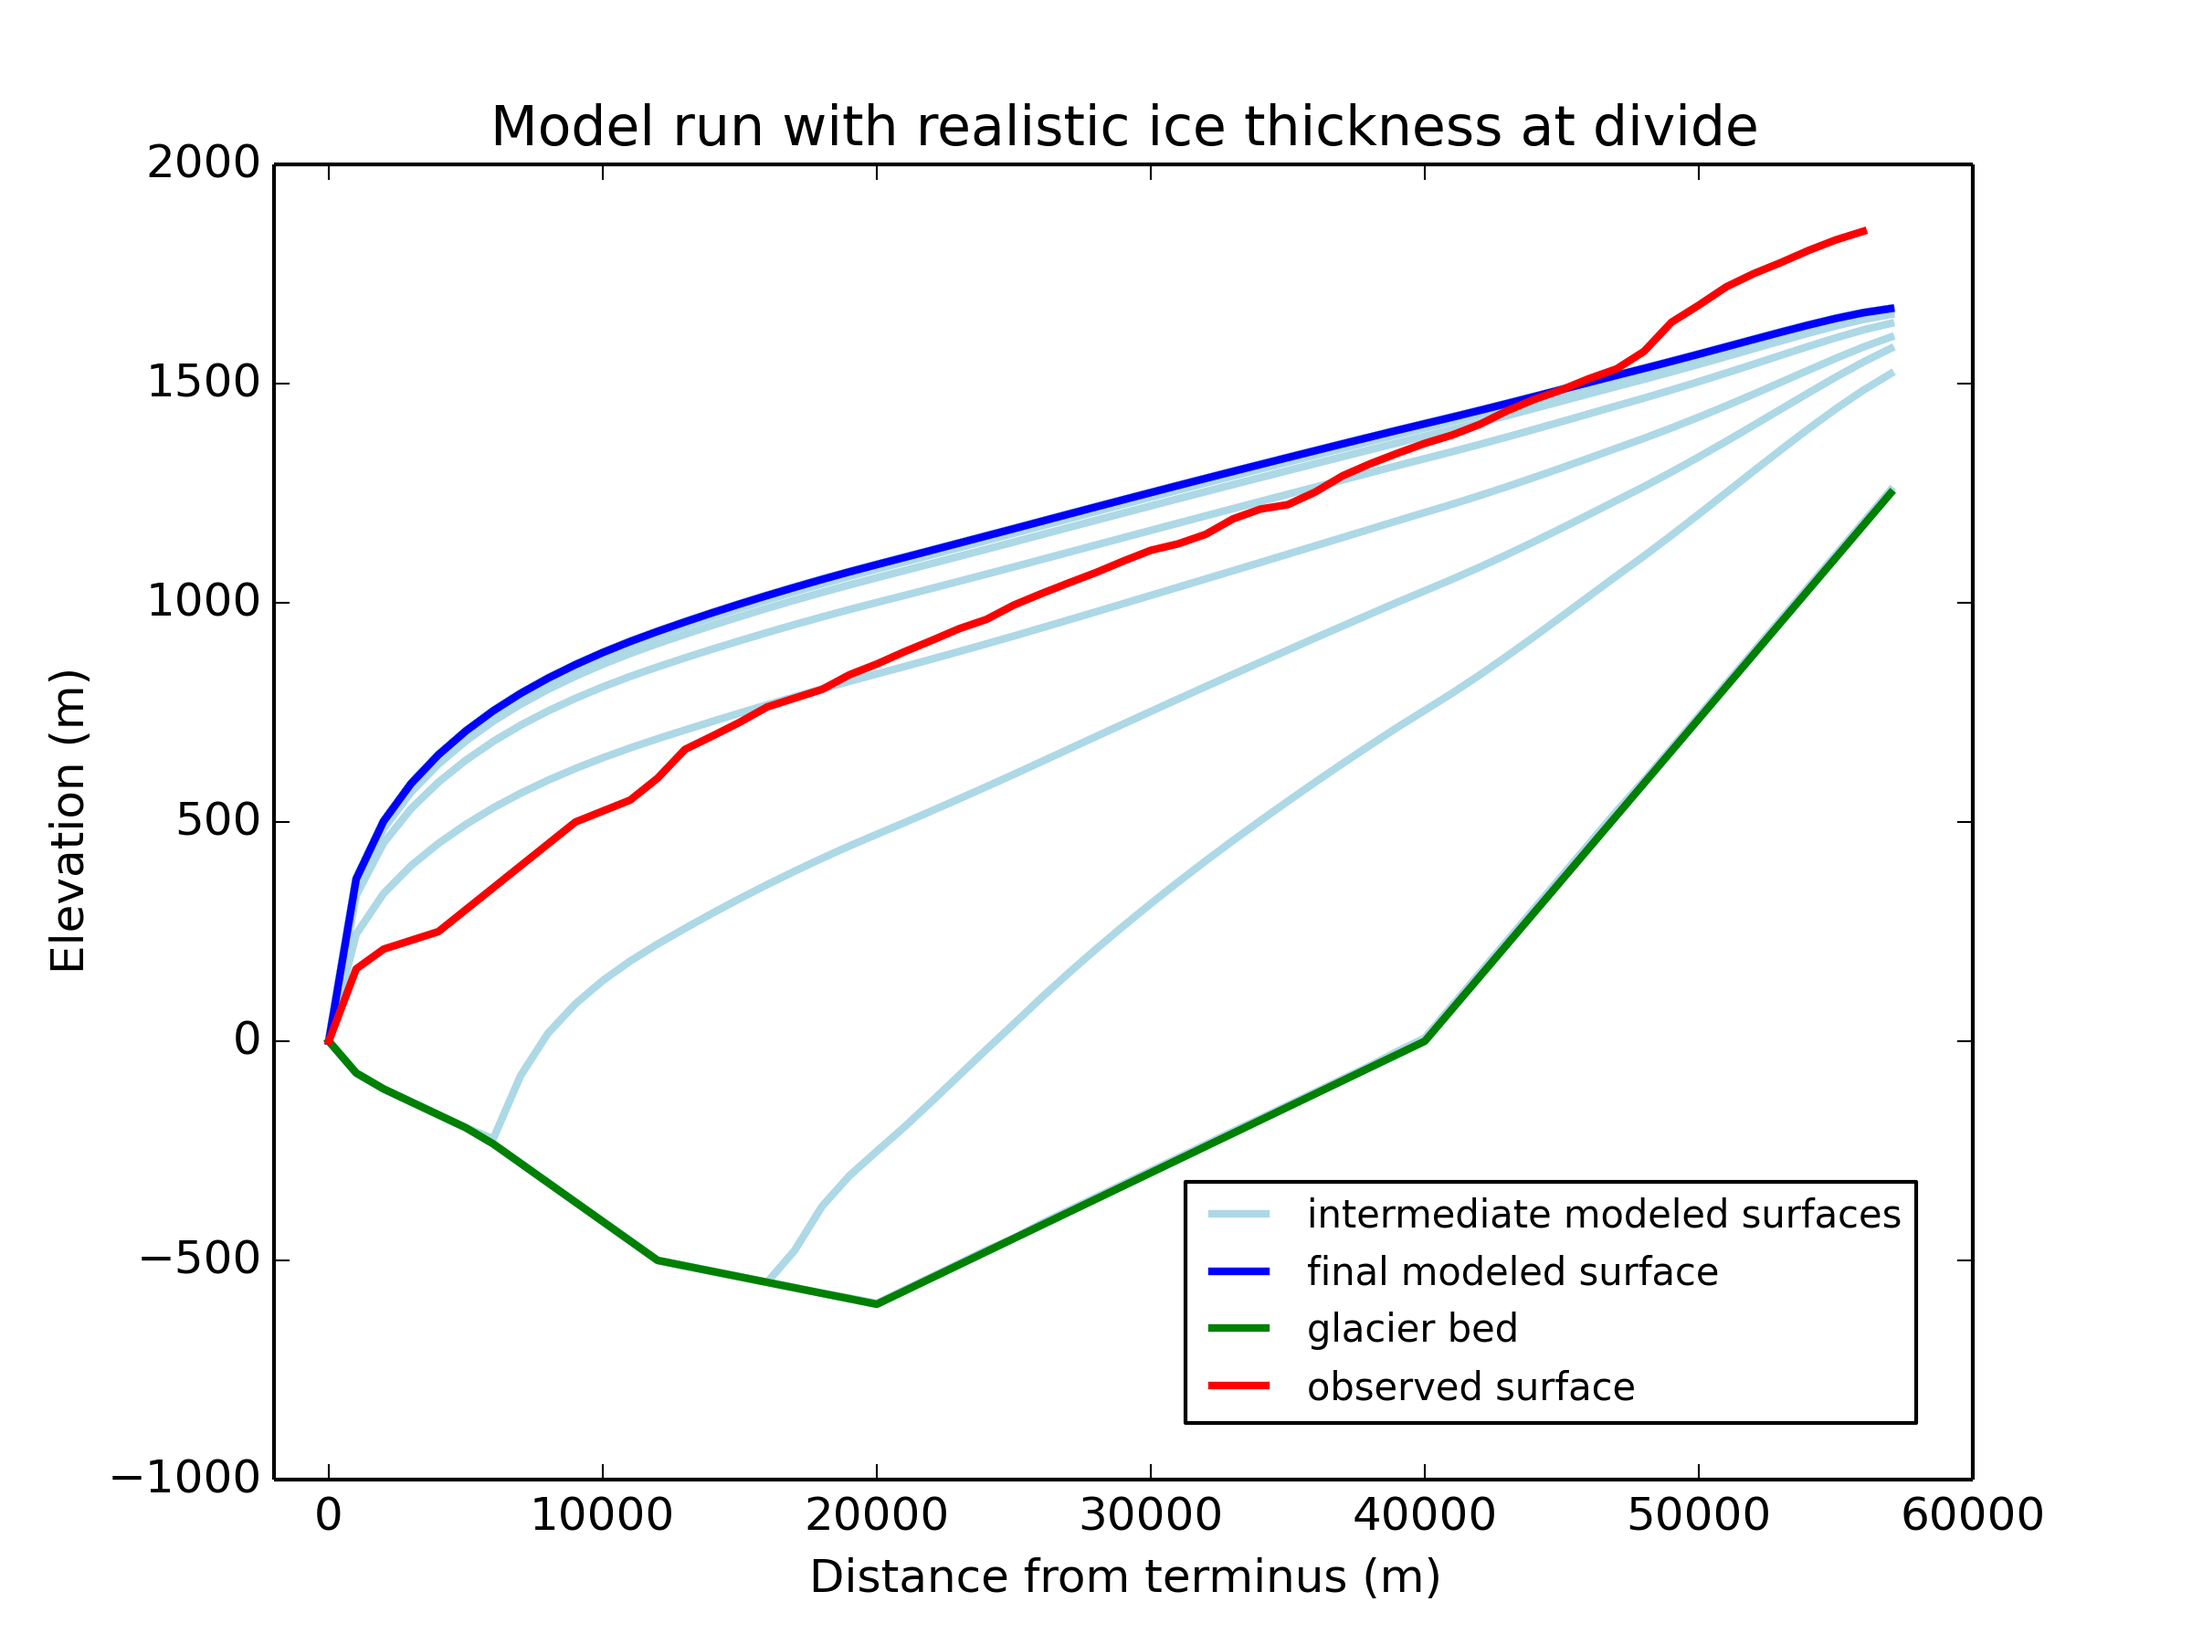
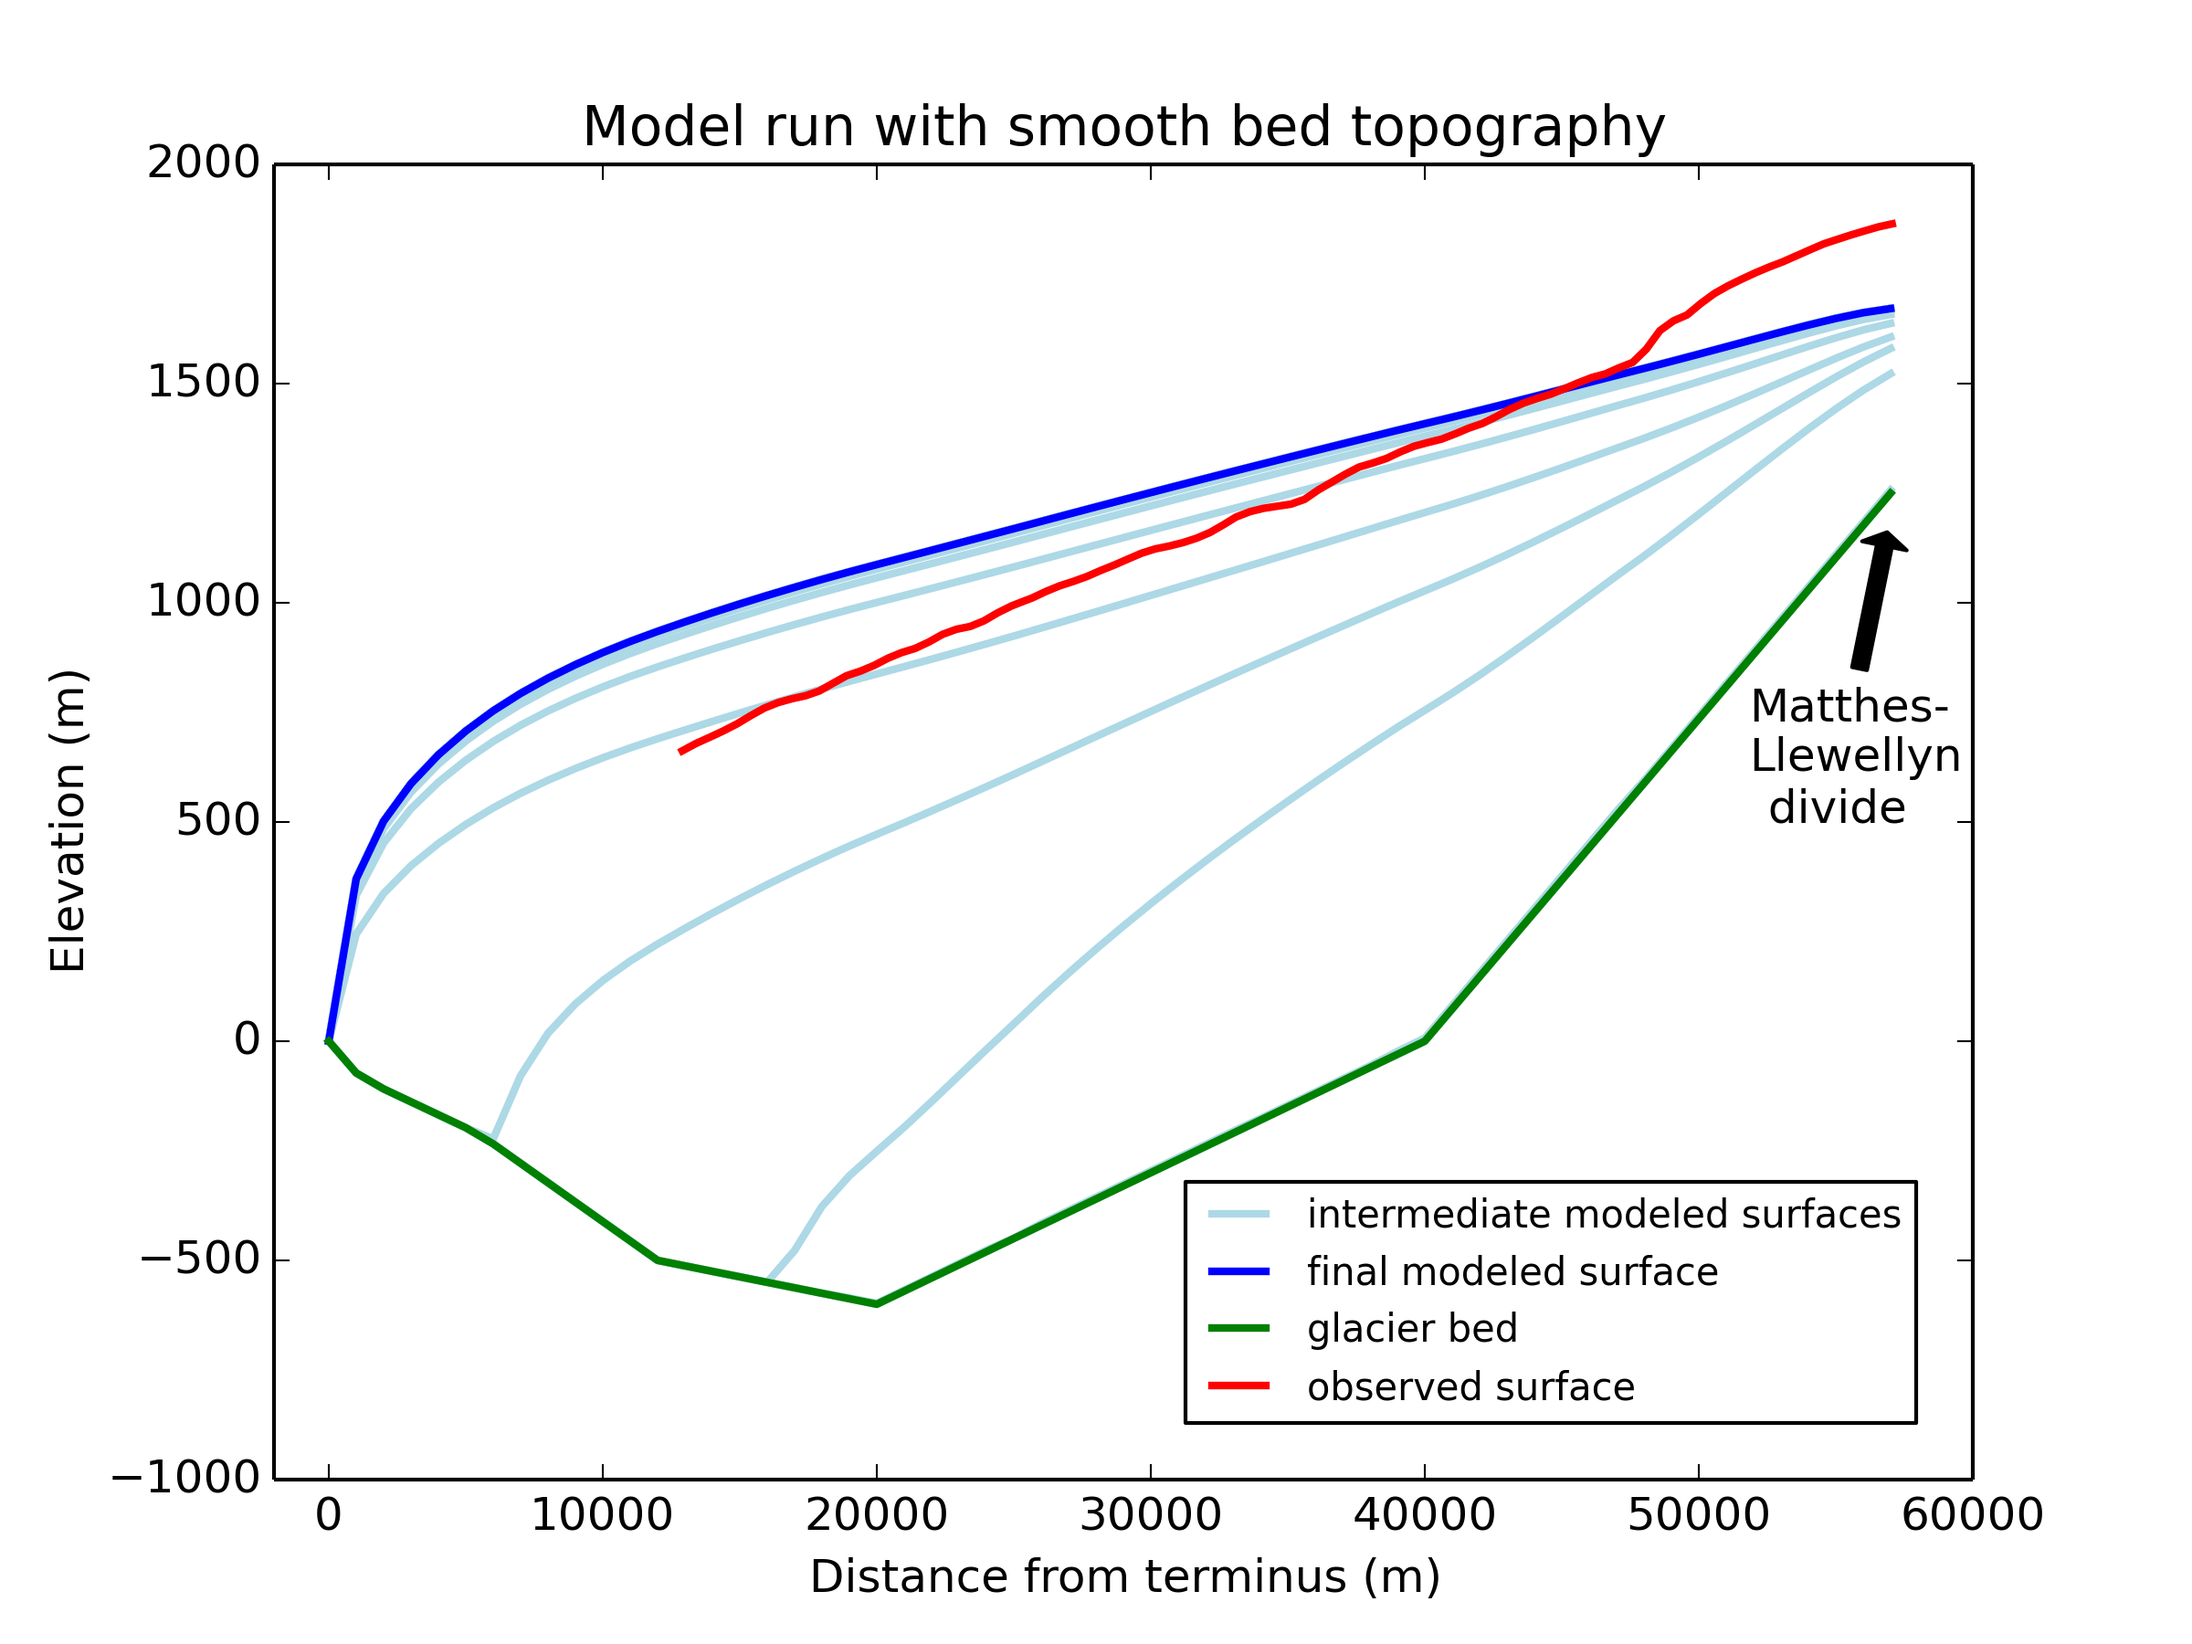
made updated figures for AGU poster

diff --git a/make_poster_figs.py b/make_poster_figs.py
@@ -14,18 +14,42 @@ for i in range(1, timesteps):
 mp.plot(x[0:58], elev[50][0:58], 'blue', label='final modeled surface', lw=2)
 mp.plot(x[0:58], bed[0][0:58], 'green', label='glacier bed', lw=2)
 
-surf_elev = tools.load_first_guess_surface()
-mp.plot(range(0, 57000, 1000), surf_elev, 'red', label='observed surface', lw=2)
+surf_dist, surf_elev = tools.load_gps_surface()
+mp.plot(surf_dist, surf_elev, 'red', label='observed surface', lw=2)
 mp.axis([-2000, 60000, -1000, 2000])
-mp.title('Model run with realistic ice thickness at divide')
+mp.title('Model run with smooth bed topography')
 mp.ylabel('Elevation (m)')
 mp.xlabel('Distance from terminus (m)')
+mp.annotate('Matthes-\nLlewellyn\n divide', xy=(57000, 1200), xytext=(52000, 500), arrowprops=dict(facecolor='black', shrink=0.1))
 mp.legend(loc='lower right', fontsize='small', borderaxespad=1.5)
 mp.savefig('current_model.png', dpi=300)
 
-#########and now the old model run. gonna copy and paste some code because i'm too lazy to refactor and want to be able to reproduce either figure
+# #########and now the old model run. gonna copy and paste some code because i'm too lazy to refactor and want to be able to reproduce either figure
+# mp.clf()
+# f = ncdf.netcdf_file('old_model.nc', 'r')
+# elev = f.variables['surface_elev']
+# bed = f.variables['bed_elev']
+# time = f.variables['time']
+# x = f.variables['x']
+# timesteps = 51 #suddenly mad about length of ncdf variables, what the hell
+# mp.plot(x[0:58], elev[0][0:58], 'lightblue', label='intermediate modeled surfaces', lw=2) #hack for labeling
+# for i in range(1, timesteps):
+# 	mp.plot(x[0:58], elev[i][0:58], 'lightblue', lw=2)
+# mp.plot(x[0:58], elev[50][0:58], 'blue', label='final modeled surface', lw=2)
+# mp.plot(x[0:58], bed[0][0:58], 'green', label='glacier bed', lw=2)
+
+# surf_elev = tools.load_first_guess_surface()
+# mp.plot(range(0, 57000, 1000), surf_elev, 'red', label='observed surface', lw=2)
+# mp.axis([-2000, 60000, -1000, 2000])
+# mp.title('Example model run')
+# mp.ylabel('Elevation (m)')
+# mp.xlabel('Distance from terminus (m)')
+# mp.legend(loc='upper left', fontsize='small', borderaxespad=1.5)
+# mp.savefig('old_model.png', dpi=300)
+
+############ current model but with jameso's random bed topo
 mp.clf()
-f = ncdf.netcdf_file('old_model.nc', 'r')
+f = ncdf.netcdf_file('random_bed.nc', 'r')
 elev = f.variables['surface_elev']
 bed = f.variables['bed_elev']
 time = f.variables['time']
@@ -37,11 +61,12 @@ for i in range(1, timesteps):
 mp.plot(x[0:58], elev[50][0:58], 'blue', label='final modeled surface', lw=2)
 mp.plot(x[0:58], bed[0][0:58], 'green', label='glacier bed', lw=2)
 
-surf_elev = tools.load_first_guess_surface()
-mp.plot(range(0, 57000, 1000), surf_elev, 'red', label='observed surface', lw=2)
+surf_dist, surf_elev = tools.load_gps_surface()
+mp.plot(surf_dist, surf_elev, 'red', label='observed surface', lw=2)
 mp.axis([-2000, 60000, -1000, 2000])
-mp.title('Example model run')
+mp.title('Model run with randomly generated rough bed topography')
 mp.ylabel('Elevation (m)')
 mp.xlabel('Distance from terminus (m)')
-mp.legend(loc='upper left', fontsize='small', borderaxespad=1.5)
-mp.savefig('old_model.png', dpi=300)
+mp.annotate('Matthes-\nLlewellyn\n divide', xy=(57000, 1200), xytext=(52000, 500), arrowprops=dict(facecolor='black', shrink=0.05))
+mp.legend(loc='lower right', fontsize='small', borderaxespad=1.5)
+mp.savefig('random_bed.png', dpi=300)

diff --git a/basic_model.py b/basic_model.py
@@ -92,9 +92,9 @@ class isothermalISM(object):
         return self.ice_thickness
 
 def main():
-    b0 = tools.load_nolan_bedrock()
+    b0 = tools.load_bedtopo()
     run1 = isothermalISM(58, 1000, 0.0005, b0) #55 nodes, 1000-meter spacing,  basal slip of zero
-    run1.openOutput('run1.nc')
+    run1.openOutput('random_bed.nc')
 
     for i in range(5000): #5000 years
         run1.timestep(1)
@@ -103,7 +103,7 @@ def main():
             run1.write()
     #run1.calculate_velocity()   
     run1.close()
-    tools.plot_model_run('run1.nc')
+    tools.plot_model_run('random_bed.nc')
 
 if __name__=='__main__':
     main()

diff --git a/tools.py b/tools.py
@@ -31,9 +31,12 @@ def load_mbal(fulldata=False):
 	return mbal
 
 def load_bedtopo():
-	f = open ('beddata.txt', 'r')
-	bed = [float(line) for line in f.readlines()] #topmost point is at 1250 m 
-	f.close()
+	bed = []
+	with open('beddata.csv', 'rU') as csvfile:
+		reader = csv.reader(csvfile, dialect='excel')
+		for row in reader:
+			bed.append(float(row[0]))
+	csvfile.close()
 	return bed
 
 def load_gps_surface():
